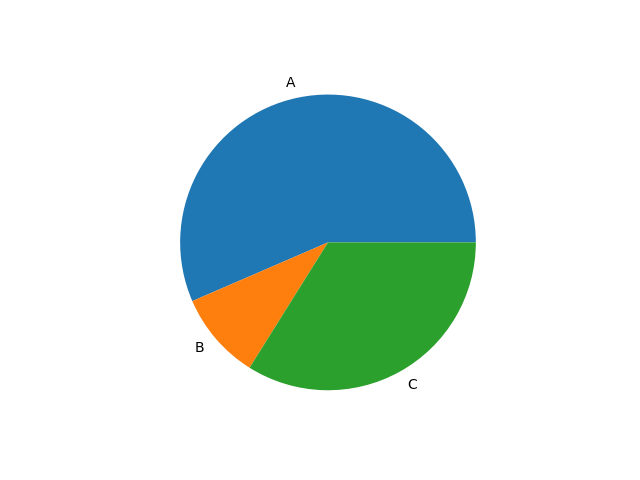
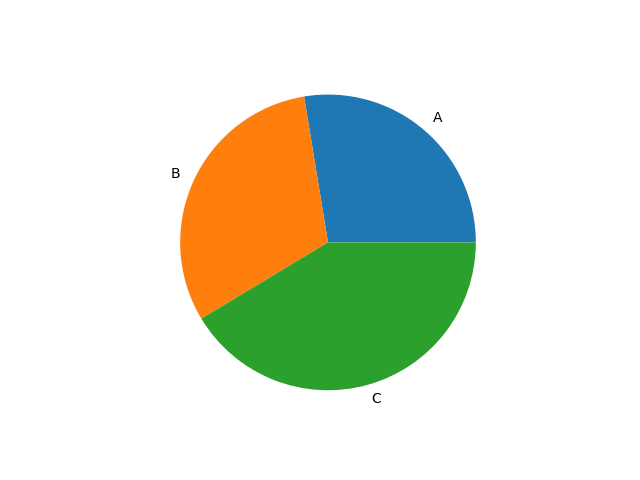
Se procede a actualizar los datos del archivo de graficas (pie.png)

diff --git a/charts/charts.py b/charts/charts.py
@@ -2,7 +2,7 @@ import matplotlib.pyplot as plt
 
 def generate_pie_chart():
     labels = ["A","B","C"]
-    values = [200, 34, 120]
+    values = [800, 900, 1200]
     
     fig, ax = plt.subplots()
     ax.pie(values, labels = labels)
